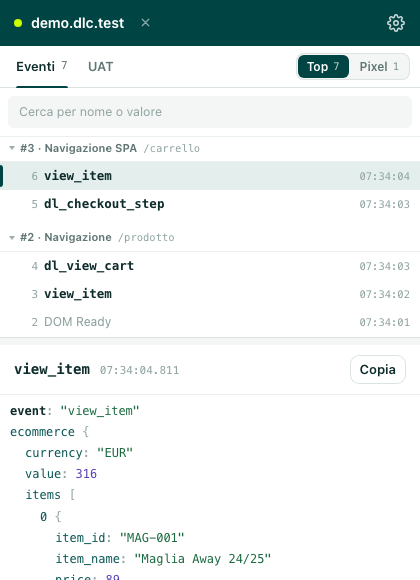
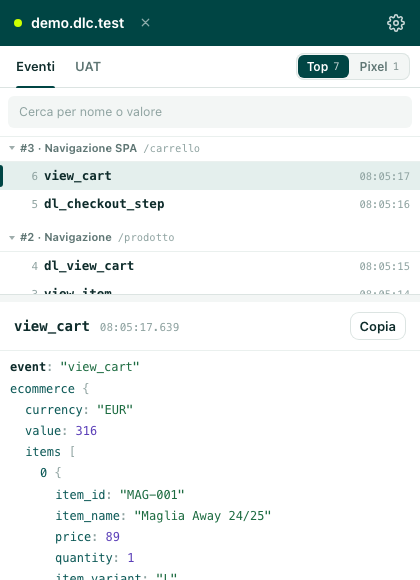
fix: via il conteggio eventi dal titolo della scheda
La scheda ora dice solo «Eventi»; il conteggio resta solo sull'intestazione di
navigazione chiusa, dove dice quanti eventi sta nascondendo. Screenshot
rigenerati, versione 1.8.2.

diff --git a/ui/events.js b/ui/events.js
@@ -47,7 +47,6 @@ export function init(context) {
   ctx = context;
   els = {
     list: $("#events-list"),
-    count: $("#events-count"),
     search: $("#events-search"),
     searchClear: $("#search-clear"),
     detailIndex: $("#detail-index"),
@@ -364,7 +363,6 @@ let lastListFrame = null;
 
 function renderList(session, events) {
   const filtered = events.filter(matches);
-  els.count.textContent = searchQuery ? filtered.length + "/" + events.length : String(events.length);
 
   const gap = currentPageGap(session, events);
 
@@ -402,12 +400,18 @@ function renderList(session, events) {
 
   if (gap) els.list.appendChild(pageGapNotice(gap));
 
+  // Quanti eventi per gruppo: serve all'intestazione per dire cosa nasconde quando è chiusa.
+  const counts = {};
+  filtered.forEach((entry) => {
+    counts[entry.navId] = (counts[entry.navId] || 0) + 1;
+  });
+
   let currentNavId = null;
   for (let idx = filtered.length - 1; idx >= 0; idx--) {
     const entry = filtered[idx];
     if (entry.navId !== currentNavId) {
       currentNavId = entry.navId;
-      els.list.appendChild(navDivider(session, entry.navId));
+      els.list.appendChild(navDivider(session, entry.navId, counts[entry.navId] || 0));
     }
     // Gruppo chiuso: l'intestazione resta (è il modo per riaprirlo), le righe no.
     if (isCollapsed(entry.navId)) continue;
@@ -500,7 +504,7 @@ function toggleCollapsed(navId) {
   render();
 }
 
-function navDivider(session, navId) {
+function navDivider(session, navId, count) {
   const marker = session && session.nav ? session.nav.find((m) => m.navId === navId) : null;
   const label = marker && marker.type === "spa" ? "Navigazione SPA" : "Navigazione";
   const collapsed = isCollapsed(navId);
@@ -516,6 +520,7 @@ function navDivider(session, navId) {
     wrap.title += "\n" + marker.url;
     wrap.appendChild(el("span", "nav-divider-url", pathnameOf(marker.url)));
   }
+  if (collapsed) wrap.appendChild(el("span", "nav-hidden", count === 1 ? "1 evento" : count + " eventi"));
   wrap.addEventListener("click", () => toggleCollapsed(navId));
   wrap.addEventListener("keydown", (e) => {
     if (e.key !== "Enter" && e.key !== " ") return;

diff --git a/gstyle.css b/gstyle.css
@@ -321,17 +321,6 @@ button:disabled {
     background: var(--teal);
 }
 
-.tab-count {
-    font-family: var(--mono);
-    font-size: 11px;
-    font-weight: 500;
-    color: var(--faint);
-}
-
-.tab-btn.active .tab-count {
-    color: var(--muted);
-}
-
 .seg {
     align-self: center;
     display: inline-flex;
@@ -712,6 +701,14 @@ body.is-splitting {
 
 .nav-divider.is-toggle:not(.is-collapsed) .nav-caret {
     transform: rotate(90deg);
+}
+
+.nav-hidden {
+    color: var(--faint);
+}
+
+.nav-hidden::before {
+    content: "· ";
 }
 
 .nav-divider:first-child {

diff --git a/index.html b/index.html
@@ -34,7 +34,7 @@
 
       <nav class="toolbar">
         <div class="tabs" role="tablist">
-          <button class="tab-btn active" type="button" data-view="events" role="tab">Eventi <span id="events-count" class="tab-count">0</span></button>
+          <button class="tab-btn active" type="button" data-view="events" role="tab">Eventi</button>
           <button class="tab-btn" type="button" data-view="uat" role="tab">UAT</button>
         </div>
         <div id="env-select" class="seg is-hidden" role="group" aria-label="Ambiente da visualizzare">
